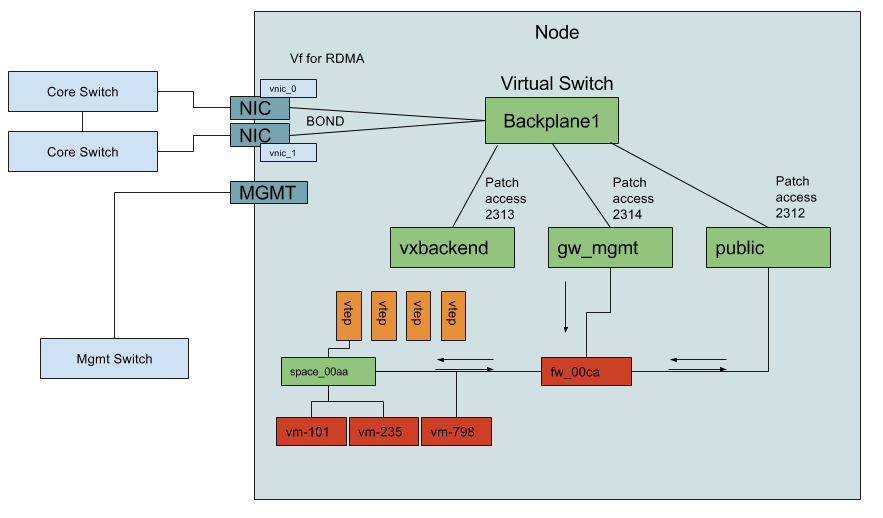
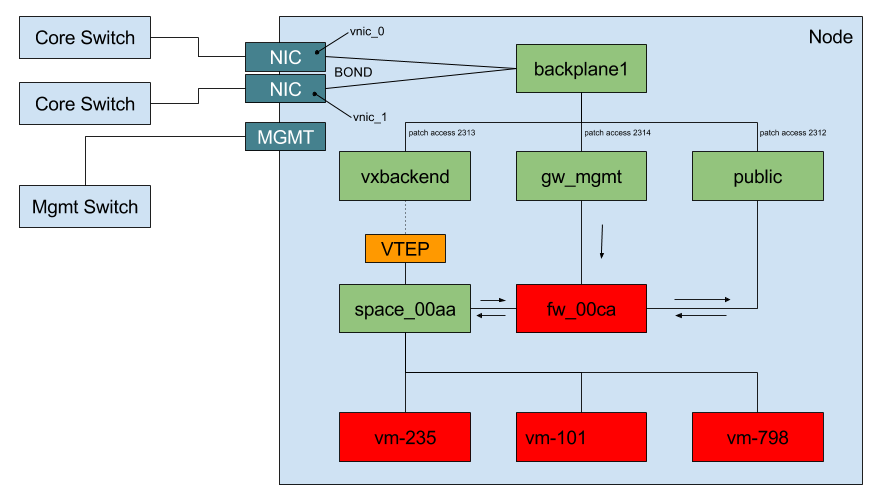
Updating Internal Nide Network documentation

diff --git a/docs/Architecture/Network/InternalNodeNetwork.md b/docs/Architecture/Network/InternalNodeNetwork.md
@@ -1,3 +1,21 @@
 ## Internal Node Network
 
 ![](InternalNodeNetwork.png)
+
+The above diagram only shows one cloud space:
+
+- 3 virtual machines
+- 1 virtual firewall
+- 1 virtual switch, connecting the cloud space to the VXLAN (via the VTEP)
+
+Color schema:
+
+- Red: virtual machines
+  - The one that is labeled as `fw_00ca` is running the MikroTik RouterOS, turning the VM into a network router; there is one per cloud space, implementing various additional features, such as firewalling
+  - The other ones in the picture are the virtual machines created for running end-user workloads
+- Green: Open vSwitch virtual switches
+  - The one that is labeled as `space_00aa` is the virtual switch of the cloud space VXLAN
+  - `public`
+  - `gw_mgmt`
+  - `vxbackend`
+- yellow: VXLAN tunnel endpoints (VTEPs)
